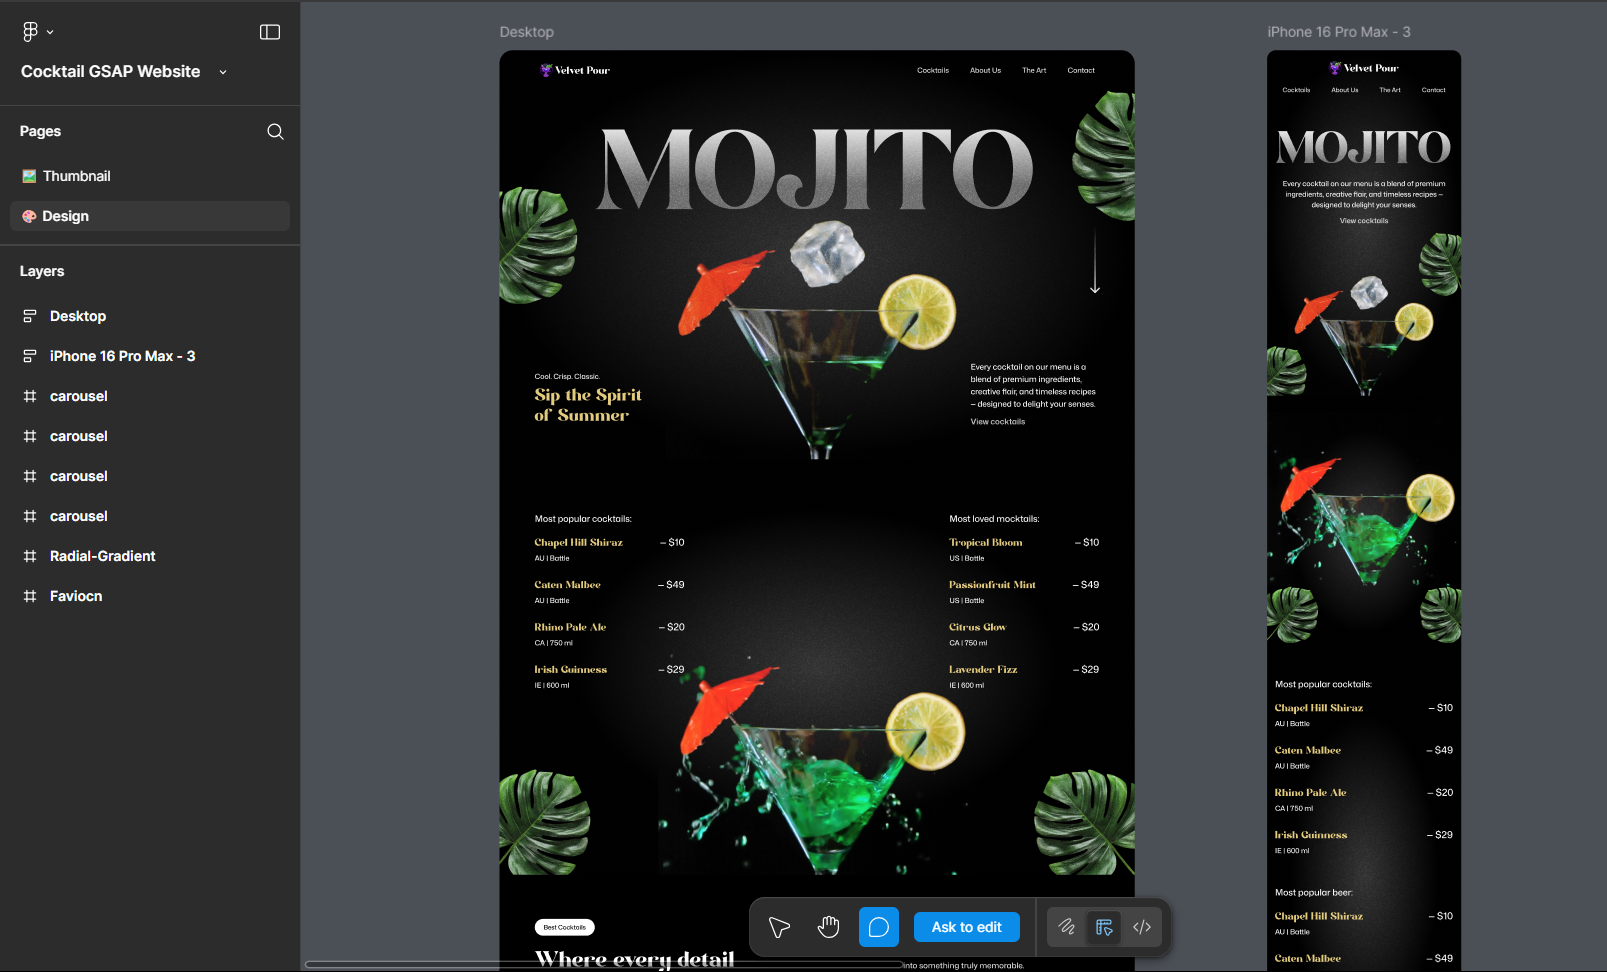
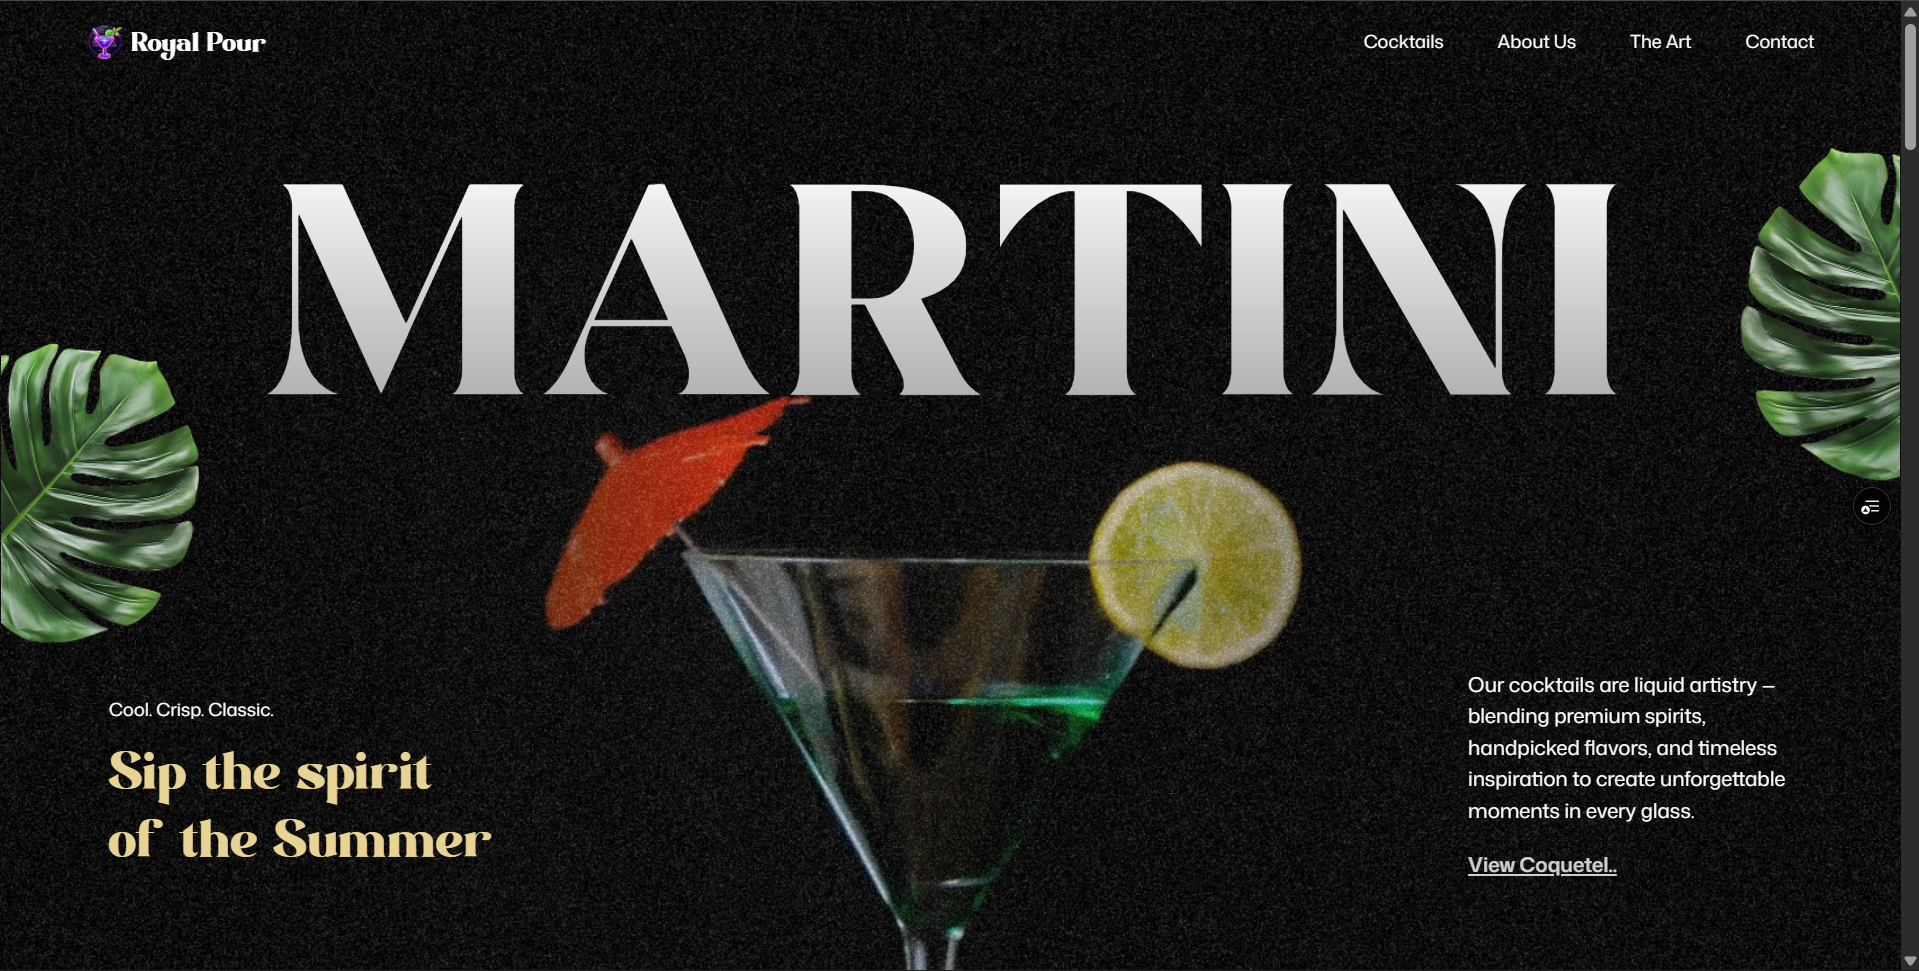
complete project section pv3

diff --git a/Portfolio_v3.1/src/constants.js b/Portfolio_v3.1/src/constants.js
@@ -271,6 +271,9 @@ import cocktail from "./assets/projects/cocktail.png";
 import chatApp2 from "./assets/projects/chat-app2.png";
 import backend from "./assets/projects/youtube-backend.png";
 import k72Clone from "./assets/projects/k72-clone.png";
+import kanbanBoard from "./assets/projects/kanbanBoard.png";
+import miranda from "./assets/projects/miranda.png";
+import Sundown from "./assets/projects/Sundown.png";
 // import codeInspector from "./assets/projects/editor.png";
 // import ochi from "./assets/projects/ochi.png";
 // import lofifyHome from "./assets/projects/lofify-home.png";
@@ -287,6 +290,9 @@ export const projectImages = [
   cocktail,
   backend,
   k72Clone,
+  kanbanBoard,
+  miranda,
+  Sundown,
   // youtubeBackend,
 ];
 
@@ -338,6 +344,58 @@ export const projects = [
     ],
   },
   {
+    title: "Miranda - Creative Portfolio Clone",
+    href: "https://frontend-miranda19.vercel.app/",
+    dates: "2025",
+    description:
+      "A front-end clone of the Miranda creative portfolio website, focusing on smooth typography, motion design, and an interactive scrolling experience. Built to master layout structuring with CSS and advanced DOM manipulation.",
+    image: miranda,
+    tags: [
+      "HTML",
+      "CSS",
+      "JavaScript",
+      "GSAP Animation Library",
+      "Lenis Smooth Scrolling",
+      "UI/UX Workflow",
+    ],
+    links: [
+      {
+        type: "Website",
+        href: "https://frontend-miranda19.vercel.app/",
+      },
+      {
+        type: "Source",
+        href: "https://github.com/rou-nak-cloud/Frontend-Projects/tree/main/Miranda(GOD)",
+      },
+    ],
+  },
+  {
+    title: "Modern Animated Sundown Clone",
+    href: "https://frontend-projects-gasj.vercel.app/",
+    dates: "Dec 2025",
+    description:
+      "A clean, minimal, and animation-driven cloning of the Sundown Website. This project focuses on delivering a high-end visual experience through custom cursor effects, optimized loader animations, and a fixed image interaction system.",
+    image: Sundown,
+    tags: [
+      "HTML5",
+      "CSS3",
+      "JavaScript (ES6)",
+      "GSAP",
+      "Lenis",
+      "Responsive Design",
+    ],
+    links: [
+      {
+        type: "Website",
+        href: "https://frontend-projects-gasj.vercel.app/",
+      },
+      {
+        type: "Source",
+        href: "https://github.com/rou-nak-cloud/Frontend-Projects/tree/main/Sundown",
+      },
+    ],
+  },
+  {
     title: "Ochi Website Clone",
     href: "https://ochi-website.onrender.com",
     dates: "2024",
@@ -375,27 +433,54 @@ export const projects = [
       },
       {
         type: "Source",
-        href: "https://github.com/rou-nak-cloud/k72-clone",
+        href: "https://github.com/rou-nak-cloud/k72.ca.clone",
       },
     ],
   },
+  // {
+  //   title: "Lofify - Music Streaming Platform",
+  //   href: "",
+  //   dates: "2025",
+  //   description:
+  //     "A full-stack music streaming platform with a Spotify-like UI and admin dashboard for managing songs, albums, and media files with responsive playback controls.",
+  //   image: lofifyHome,
+  //   tags: [
+  //     "React",
+  //     "Node.js",
+  //     "Express",
+  //     "MongoDB",
+  //     "Music Player",
+  //     "Dashboard",
+  //   ],
+  //   links: [
+  //     { type: "Source", href: "https://github.com/rou-nak-cloud/Lofiify" },
+  //   ],
+  // },
   {
-    title: "Lofify - Music Streaming Platform",
-    href: "",
-    dates: "2025",
+    title: "Kanban Board (v1)",
+    href: "https://kanbanboardv1.vercel.app/",
+    dates: "2026",
     description:
-      "A full-stack music streaming platform with a Spotify-like UI and admin dashboard for managing songs, albums, and media files with responsive playback controls.",
-    image: lofifyHome,
+      "A simple Kanban Board built with Vanilla JavaScript, supporting drag-and-drop task management, task persistence using localStorage, and dynamic UI updates. This version focuses on core Kanban functionality without any frameworks.",
+    image: kanbanBoard,
     tags: [
-      "React",
-      "Node.js",
-      "Express",
-      "MongoDB",
-      "Music Player",
-      "Dashboard",
+      "Vanilla JavaScript",
+      "localStorage",
+      "Drag & Drop API",
+      "Dynamic UI",
+      "CSS3",
+      "HTML5",
     ],
     links: [
-      { type: "Source", href: "https://github.com/rou-nak-cloud/Lofiify" },
+      {
+        type: "Website",
+        href: "https://kanbanboardv1.vercel.app/",
+      },
+      {
+        type: "Source",
+        // Adding a placeholder based on your previous GitHub link style
+        href: "https://github.com/rou-nak-cloud/JavaScript.js-Projects/tree/main/KanbanBoard",
+      },
     ],
   },
   {
@@ -420,7 +505,7 @@ export const projects = [
       },
       {
         type: "Source",
-        href: "https://github.com/rou-nak-cloud/cocktail-heaven",
+        href: "https://github.com/rou-nak-cloud/Cocktail_Drink",
       },
     ],
   },

diff --git a/Portfolio_v3.1/src/utilities/ProjectCard.jsx b/Portfolio_v3.1/src/utilities/ProjectCard.jsx
@@ -5,8 +5,11 @@ export default function ProjectCard() {
   return (
     <div className="grid grid-cols-1 md:grid-cols-2 gap-3 px-5">
       {PROJECTS.map((project, idx) => (
-        <div
+        <a
           key={idx}
+          href={project.href}
+          target="_blank"
+          rel="noopener noreferrer"
           className="group rounded-xl border border-zinc-400/30  overflow-hidden hover:shadow-xl hover:shadow-amber-500/10 transition-all duration-300 flex flex-col cursor-pointer"
         >
           {/* Project Image */}
@@ -25,7 +28,7 @@ export default function ProjectCard() {
                   href={link.href}
                   target="_blank"
                   rel="noopener noreferrer"
-                  className="flex items-center gap-1.5 bg-zinc-900/80 backdrop-blur border border-zinc-600 text-[10px] font-semibold text-white px-3 rounded-xl hover:border-amber-600 hover:text-amber-600 transition-all duration-300"
+                  className="flex items-center gap-1.5 bg-zinc-900/80 backdrop-blur border border-zinc-600 text-[10px] font-semibold text-white px-3 -py-1 rounded-xl hover:border-amber-400 hover:text-amber-500 transition-all duration-300"
                 >
                   {link.type === "Website" ? (
                     <LuGlobe size={12} />
@@ -41,7 +44,7 @@ export default function ProjectCard() {
           {/* Content */}
           <div className="p-5 flex flex-col flex-1">
             <div className="flex justify-between items-center mb-1">
-              <h3 className="text-xl leading-tight font-cabinet font-bold text-slate-800 group-hover:text-amber-600 transition-colors">
+              <h3 className="text-xl leading-tight text-left font-cabinet font-bold text-slate-800 group-hover:text-amber-600 transition-colors">
                 {project.title}
               </h3>
               <LuArrowUpRight className="text-slate-400 group-hover:translate-x-1 group-hover:-translate-y-1 transition-transform" />
@@ -67,7 +70,7 @@ export default function ProjectCard() {
               ))}
             </div>
           </div>
-        </div>
+        </a>
       ))}
     </div>
   );

diff --git a/Portfolio_v3.1/src/components/Skills.jsx b/Portfolio_v3.1/src/components/Skills.jsx
@@ -17,7 +17,7 @@ export default function Skills() {
         {SKILLS.map((skill) => (
           <div
             key={skill.name}
-            className="flex items-center gap-2 px-4 py-1.5 border border-slate-300/80 rounded-full bg-white shadow-sm hover:bg-amber-100/40 transition-colors cursor-grabbing"
+            className="flex items-center gap-2 px-4 py-1.5 border border-slate-300/80 rounded-full bg-white shadow-sm hover:bg-amber-100/40 transition-colors cursor-vertical-text"
           >
             <img
               src={skill.icon}